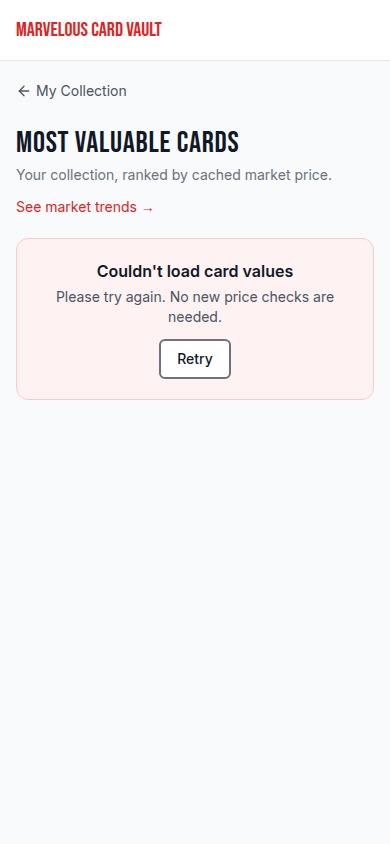
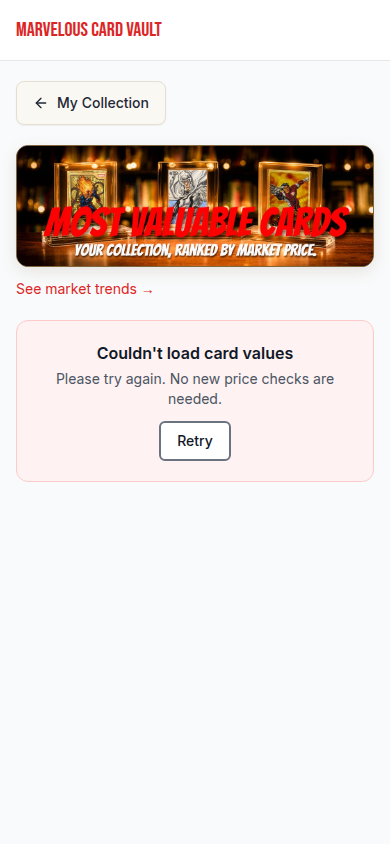
Update collection value component styles and refresh test screenshots
Replit-Commit-Author: Agent

diff --git a/client/src/dev/value-browser-check.ts b/client/src/dev/value-browser-check.ts
@@ -83,6 +83,28 @@ async function checkShowcase(page: Page, requests: string[], scenario: string, o
   await page.getByTestId("button-close-modal").click();
 }
 
+async function checkBanner(page: Page) {
+  const banner = page.getByTestId("value-page-banner");
+  await banner.waitFor();
+  await page.waitForFunction(() => {
+    const image = document.querySelector<HTMLImageElement>('[data-testid="value-page-banner"]');
+    return image?.complete && image.naturalWidth > 0;
+  });
+  const dimensions = await banner.evaluate(image => {
+    const img = image as HTMLImageElement;
+    const bounds = img.getBoundingClientRect();
+    return { width: img.naturalWidth, height: img.naturalHeight, renderedWidth: bounds.width, renderedHeight: bounds.height, objectFit: getComputedStyle(img).objectFit };
+  });
+  assert.equal(dimensions.width, 1024);
+  assert.equal(dimensions.height, 344);
+  assert.ok(Math.abs(dimensions.renderedWidth / dimensions.renderedHeight - 1024 / 344) < 0.01, "banner is uncropped");
+  assert.notEqual(dimensions.objectFit, "cover");
+  assert.ok((await page.getByRole("heading", { name: "Most Valuable Cards", exact: true }).getAttribute("class"))?.includes("sr-only"));
+  assert.equal(await page.getByText("Your collection, ranked by cached market price.", { exact: true }).count(), 0);
+  assert.equal(await page.getByRole("link", { name: "My Collection", exact: true }).getAttribute("href"), "/my-collection");
+  assert.equal(await page.getByRole("link", { name: "See market trends →" }).getAttribute("href"), "/trends");
+}
+
 // Run: npx tsx client/src/dev/value-browser-check.ts
 // Optional: VALUE_UI_BASE_URL, VALUE_UI_CHROMIUM (browser executable).
 // This script never signs in and never sends API requests to the backend.
@@ -212,11 +234,25 @@ try {
       throw error;
     });
     await page.screenshot({ path: `${output}/${scenario}-390.png`, fullPage: scenario === "trends" });
+    if (scenario === "value") {
+      await checkBanner(page);
+      await page.evaluate(() => window.scrollTo(0, 0));
+      await page.screenshot({ path: `${output}/value-banner-top-390.png` });
+      await page.setViewportSize({ width: 1280, height: 1000 });
+      await checkBanner(page);
+      await page.screenshot({ path: `${output}/value-banner-top-1280.png` });
+      await page.setViewportSize({ width: 390, height: 844 });
+    }
     assert.equal(await page.evaluate(() => document.documentElement.scrollWidth > 390), false, `${scenario} horizontal overflow`);
     if (["value", "page-error", "detail-error"].includes(scenario)) {
       assert.ok((await page.getByTestId("value-summary").innerText()).includes(summary.totalValue.toLocaleString("en-US", { minimumFractionDigits: 2, maximumFractionDigits: 2 })));
       assert.equal(await page.locator('[data-testid^="value-card-"]').count(), 25);
       await checkShowcase(page, requests, scenario, output);
+      if (scenario === "value") {
+        await page.getByRole("link", { name: "My Collection", exact: true }).click();
+        await page.getByRole("combobox", { name: "Collection sort" }).waitFor();
+        assert.equal(await page.getByTestId("value-page-banner").count(), 0, "back navigation reaches My Collection");
+      }
     }
     if (scenario === "error") {
       await page.getByRole("button", { name: "Retry", exact: true }).click();

diff --git a/client/src/pages/collection-value.tsx b/client/src/pages/collection-value.tsx
@@ -1,16 +1,19 @@
 import { Link } from "wouter";
 import { ArrowLeft } from "lucide-react";
 import { CollectionValueList } from "@/components/collection/collection-value-list";
+import valueBanner from "@/assets/most-valuable-cards-banner.webp";
 
 export default function CollectionValue() {
   return (
     <div className="min-h-[100dvh] bg-gray-50 px-4 py-5 pb-20 sm:px-6">
       <div className="mx-auto max-w-5xl space-y-5">
-        <Link href="/my-collection" className="inline-flex items-center gap-1 text-sm text-gray-600 hover:text-red-600"><ArrowLeft className="h-4 w-4" />My Collection</Link>
-        <header>
-          <h1 className="font-bebas text-3xl tracking-wide text-gray-900">Most Valuable Cards</h1>
-          <p className="mt-1 text-sm text-gray-500">Your collection, ranked by cached market price.</p>
-          <Link href="/trends" className="mt-3 inline-block text-sm text-red-600 hover:underline">See market trends →</Link>
+        <Link href="/my-collection" className="inline-flex min-h-11 items-center gap-2 rounded-lg border border-[#e6dfcf] bg-[#faf8f3] px-4 py-2 text-sm font-medium text-gray-800 shadow-sm hover:border-[#9b732e] hover:bg-[#f4efe4] focus-visible:outline focus-visible:outline-2 focus-visible:outline-offset-2 focus-visible:outline-red-600"><ArrowLeft aria-hidden="true" className="h-4 w-4" />My Collection</Link>
+        <header className="space-y-3">
+          <h1 className="sr-only">Most Valuable Cards</h1>
+          <div className="value-page-banner">
+            <img src={valueBanner} width={1024} height={344} alt="Your collection, ranked by market price. Marvel cards in gold-lit display cases." fetchPriority="high" data-testid="value-page-banner" />
+          </div>
+          <Link href="/trends" className="inline-block text-sm text-red-600 hover:underline">See market trends →</Link>
         </header>
         <CollectionValueList showSummary />
       </div>

diff --git a/client/src/components/collection/collection-value.css b/client/src/components/collection/collection-value.css
@@ -1,3 +1,16 @@
+.value-page-banner {
+  overflow: hidden;
+  width: 100%;
+  border: 1px solid #80663c;
+  border-radius: 12px;
+  background: #21181d;
+  box-shadow: 0 5px 16px #79613d24;
+}
+.value-page-banner img {
+  display: block;
+  width: 100%;
+  height: auto;
+}
 .value-gallery {
   --vault-ivory: #faf8f3;
   --vault-gold: #9b732e;
